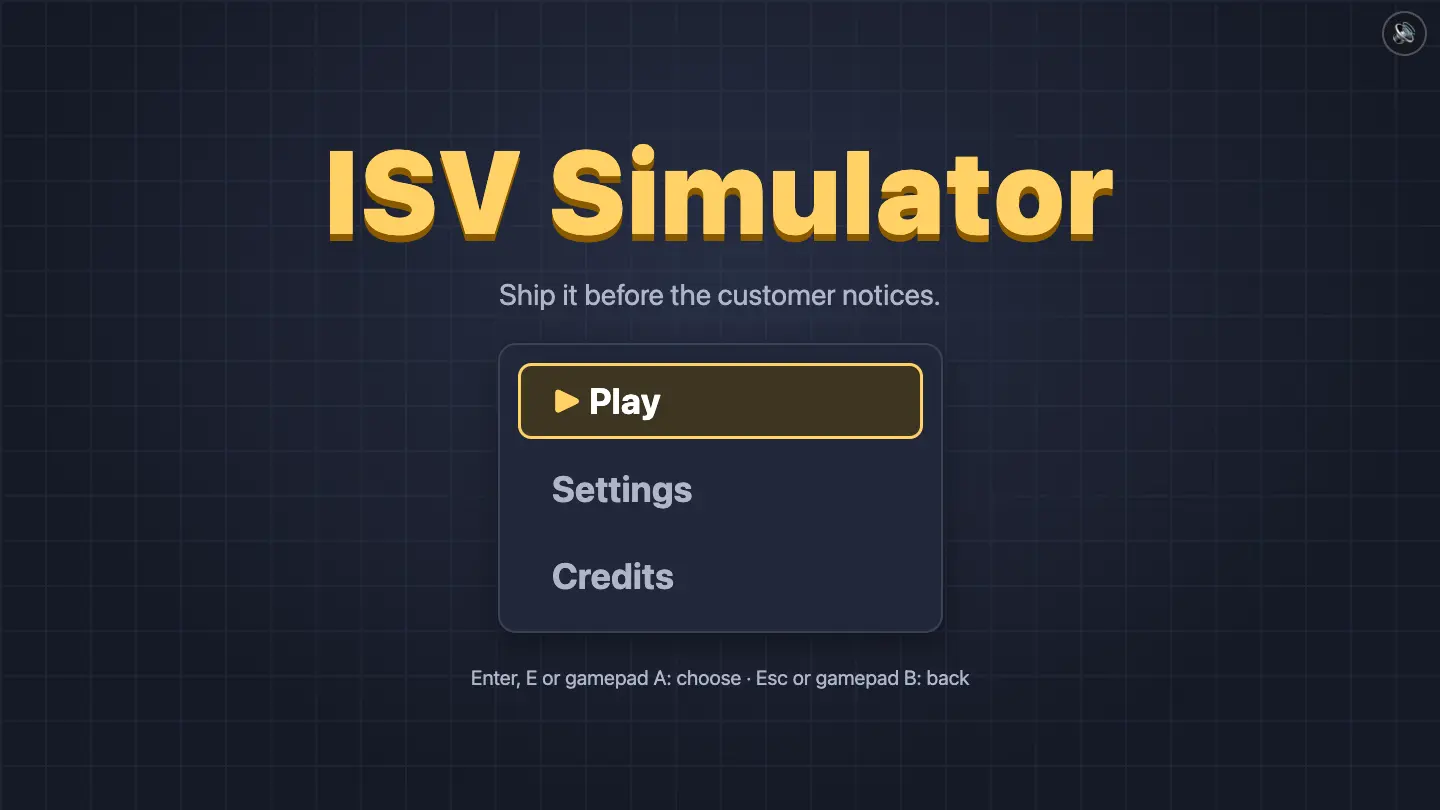
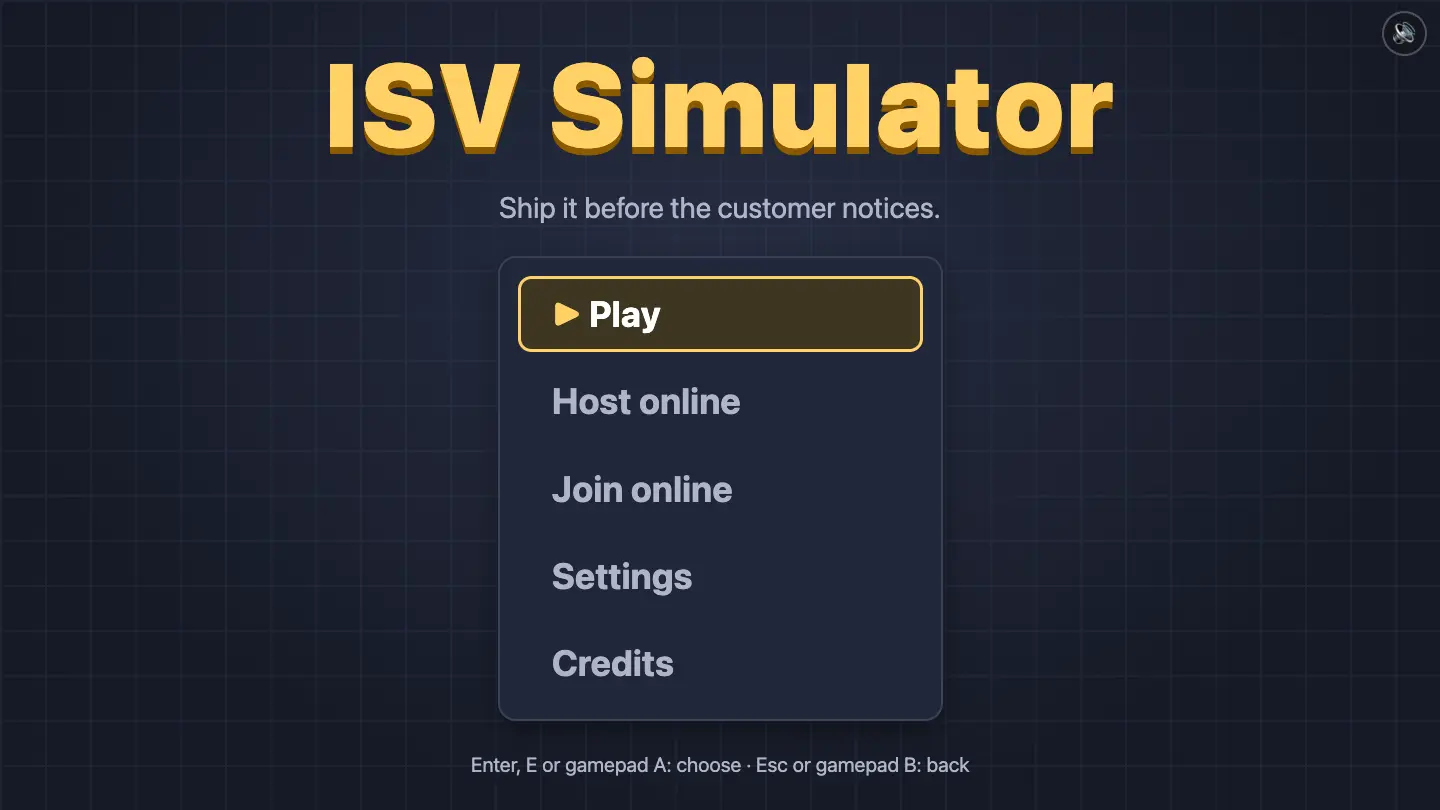
Screenshots and docs: online lobby and join code, title shots follow the new menu

diff --git a/scripts/screenshots.ts b/scripts/screenshots.ts
@@ -5,22 +5,27 @@
  * the DevTools protocol: menus with key presses, moments of a round with
  * `?scene=<id>` (built in `src/sim/scenes.ts`, frozen once they're there).
  *
- * Usage: start `npm run dev`, then
- *   npm run screenshots -- [--base=http://localhost:5173] [--only=pipeline]
- * `--only` takes shots whose name contains the text. Set CHROME to the
- * Chrome binary if it isn't in the usual place.
+ * Usage: start `npm run dev:online` (or `npm run dev` and skip the online
+ * shots with `--only`), then
+ *   npm run screenshots -- [--base=http://localhost:5173] [--server=http://localhost:2567] [--only=pipeline]
+ * `--only` takes shots whose name contains the text. `--server` is the game
+ * server the page talks to; a second room member joins it from here for the
+ * online lobby shot. Set CHROME to the Chrome binary if it isn't in the usual
+ * place.
  */
 
 import { type ChildProcess, spawn } from 'node:child_process';
 import { existsSync, mkdirSync, mkdtempSync, rmSync, writeFileSync } from 'node:fs';
 import { tmpdir } from 'node:os';
 import { dirname, join } from 'node:path';
+import { helloFor, joinRoomByCode } from '../src/net/client';
 import { SCENES } from '../src/sim/scenes';
 
 const args = process.argv.slice(2);
 const arg = (name: string): string | undefined =>
   args.find((a) => a.startsWith(`--${name}=`))?.slice(name.length + 3);
 const BASE = arg('base') ?? 'http://localhost:5173';
+const SERVER = arg('server') ?? 'http://localhost:2567';
 const ONLY = arg('only');
 const OUT = join(import.meta.dirname, '..', 'docs', 'game', 'images');
 const WIDTH = 1440;
@@ -86,11 +91,15 @@ class Page {
     await sleep(settle);
   }
 
-  /** Presses and releases a key, held long enough for a frame to see it. */
-  async key(code: string, key = code): Promise<void> {
+  /**
+   * Presses and releases a key, held long enough for a frame to see it.
+   * With `text` it types that text too (into a focused text box).
+   */
+  async key(code: string, key = code, text?: string): Promise<void> {
     const vk = VIRTUAL_KEYS[code] ?? 0;
     const base = { code, key, windowsVirtualKeyCode: vk, nativeVirtualKeyCode: vk };
-    await this.send('Input.dispatchKeyEvent', { type: 'rawKeyDown', ...base });
+    const down = text === undefined ? { type: 'rawKeyDown' } : { type: 'keyDown', text };
+    await this.send('Input.dispatchKeyEvent', { ...down, ...base });
     await sleep(80);
     await this.send('Input.dispatchKeyEvent', { type: 'keyUp', ...base });
     await sleep(250);
@@ -110,6 +119,7 @@ class Page {
 }
 
 const VIRTUAL_KEYS: Readonly<Record<string, number>> = {
+  Backspace: 8,
   Enter: 13,
   Escape: 27,
   ArrowLeft: 37,
@@ -213,8 +223,8 @@ const SHOTS: Record<string, Shot> = {
     await page.key('Enter');
     await sleep(400);
     await page.shot('screens/title-menu');
-    await page.key('ArrowDown');
-    await page.key('ArrowDown');
+    // Play, Host online, Join online, Settings, Credits.
+    for (let i = 0; i < 4; i++) await page.key('ArrowDown');
     await page.key('Enter');
     await sleep(400);
     await page.shot('screens/credits');
@@ -224,7 +234,7 @@ const SHOTS: Record<string, Shot> = {
     await sleep(400);
     await page.shot('screens/settings');
     await page.key('Escape');
-    await page.key('ArrowUp');
+    for (let i = 0; i < 3; i++) await page.key('ArrowUp');
     await page.key('Enter');
     await page.key('Enter');
     await page.key('Enter');
@@ -235,12 +245,66 @@ const SHOTS: Record<string, Shot> = {
   async 'screens/profile'(page) {
     await page.open('/');
     await page.key('Enter'); // wake the title
-    await page.key('ArrowDown');
+    for (let i = 0; i < 3; i++) await page.key('ArrowDown');
     await page.key('Enter'); // Settings
     for (let i = 0; i < 3; i++) await page.key('ArrowDown');
     await page.key('Enter'); // Online profile
     await sleep(400);
     await page.shot('screens/profile');
+  },
+
+  async 'screens/join-code'(page) {
+    await page.open('/');
+    await page.key('Enter'); // wake the title
+    await page.key('ArrowDown');
+    await page.key('ArrowDown');
+    await page.key('Enter'); // Join online
+    for (const letter of 'zzzz') await page.key(`Key${letter.toUpperCase()}`, letter, letter);
+    await page.key('Enter');
+    await sleep(800);
+    await page.shot('screens/join-code');
+  },
+
+  async 'screens/online-lobby'(page) {
+    // A name rather than "Dev 1234", for the picture.
+    await page.open('/');
+    await page.eval(`localStorage.setItem('isv-simulator.displayName', 'Ada')`);
+    await page.open('/');
+    await page.key('Enter'); // wake the title
+    await page.key('ArrowDown');
+    await page.key('Enter'); // Host online
+    await sleep(1000);
+    const code = await page.eval<string>(
+      `document.querySelector('.online-code')?.textContent ?? ''`,
+    );
+    if (!code) throw new Error(`no room: is the game server running at ${SERVER}?`);
+    await page.key('Enter'); // the host joins with the keyboard
+    // Someone else joins from another machine, with a gamepad.
+    const guest = await joinRoomByCode(
+      SERVER,
+      code,
+      helloFor({ userId: '6f1c2d3e-4b5a-4c6d-8e7f-9a0b1c2d3e4f', displayName: 'Grace' }),
+    );
+    try {
+      guest.send({
+        type: 'menu',
+        presses: [
+          {
+            deviceId: 'pad-0',
+            joinGroup: 'pad-0',
+            join: true,
+            interact: false,
+            dash: false,
+            menu: false,
+            nav: { x: 0, y: 0 },
+          },
+        ],
+      });
+      await sleep(800);
+      await page.shot('screens/online-lobby');
+    } finally {
+      await guest.leave();
+    }
   },
 
   async 'screens/level-select'(page) {

diff --git a/docs/game/README.md b/docs/game/README.md
@@ -42,7 +42,7 @@ Anywhere: **M** or the speaker button in the top right turns all sound off and o
 
 ### Title
 
-The title waits for any button. After that it shows the main menu.
+The title waits for any button. After that it shows the main menu: Play (couch play on this machine), Host online, Join online, Settings and Credits.
 
 |                                            |                                               |
 | ------------------------------------------ | --------------------------------------------- |
@@ -63,6 +63,16 @@ Settings → Online profile shows this browser's user ID and display name. Copy 
 Press Enter or gamepad A to join. The first Enter joins the left keyboard, the second the right keyboard; every gamepad joins with A. Each player gets a color and a hat shape (circle, triangle, square, diamond) so players can be told apart without color. Player 1 starts with their pick-up button.
 
 ![Lobby with two keyboard players](images/screens/lobby.webp)
+
+### Playing online
+
+Online play needs the game server (`npm run dev:online` runs it with the game). **Host online** creates a room and shows the online lobby with its 4-letter code. **Join online** asks for that code: type it (or paste it), Enter joins. A gamepad turns the letters with up/down and moves with left/right. A wrong code, a full room, another game version or a server that can't be reached each get their own message.
+
+![Join online with a wrong code](images/screens/join-code.webp)
+
+The online lobby shows the code (with Copy), everyone in the room, the host's badge and each machine's couch players in their colors and hats. Couch players on every machine join with Enter or gamepad A, as on the couch (4 players per room in total). The host starts with their pick-up button and picks the level; everyone else sees "Host is choosing a level". Online, only the host's devices drive the level select, the intro card, pause (which pauses the whole room) and the results. Settings and the online profile aren't reachable from an online room. Esc, gamepad B or Leave room leaves.
+
+![Online lobby with two machines](images/screens/online-lobby.webp)
 
 ### Level select
 

diff --git a/docs/plan/phase-13d-online-lobby.md b/docs/plan/phase-13d-online-lobby.md
@@ -29,6 +29,7 @@ Built without a review round (the product owner was away); decisions are in `rev
 ### Online session state (`src/flow/online.ts`, pure)
 
 `OnlineState = { role, status, error, sessionId, joinCode, members, levels, flow, serverTick }` and:
+
 - `createOnline(role)`, `onlineConnected(state, sessionId, joinCode)`, `applyServerMessage(state, message)` (welcome, lobby, snapshot, roundStart, error), `onlineStatus(state, status, error?)`.
 - `isOnlineHost`, `hostIsChoosing(state)` (a host-only screen and this machine isn't the host), `membersWithPlayers(state)` (each member with its couch players, local device ids), `onlineMenuPresses(state, presses)` → `{ send, leave }`: back on the lobby (or while connecting, or after the connection failed) leaves; everything else goes to the server.
 - `onlineErrorFromCode(code)` maps protocol `ErrorCode`s to the screen's friendly errors.
